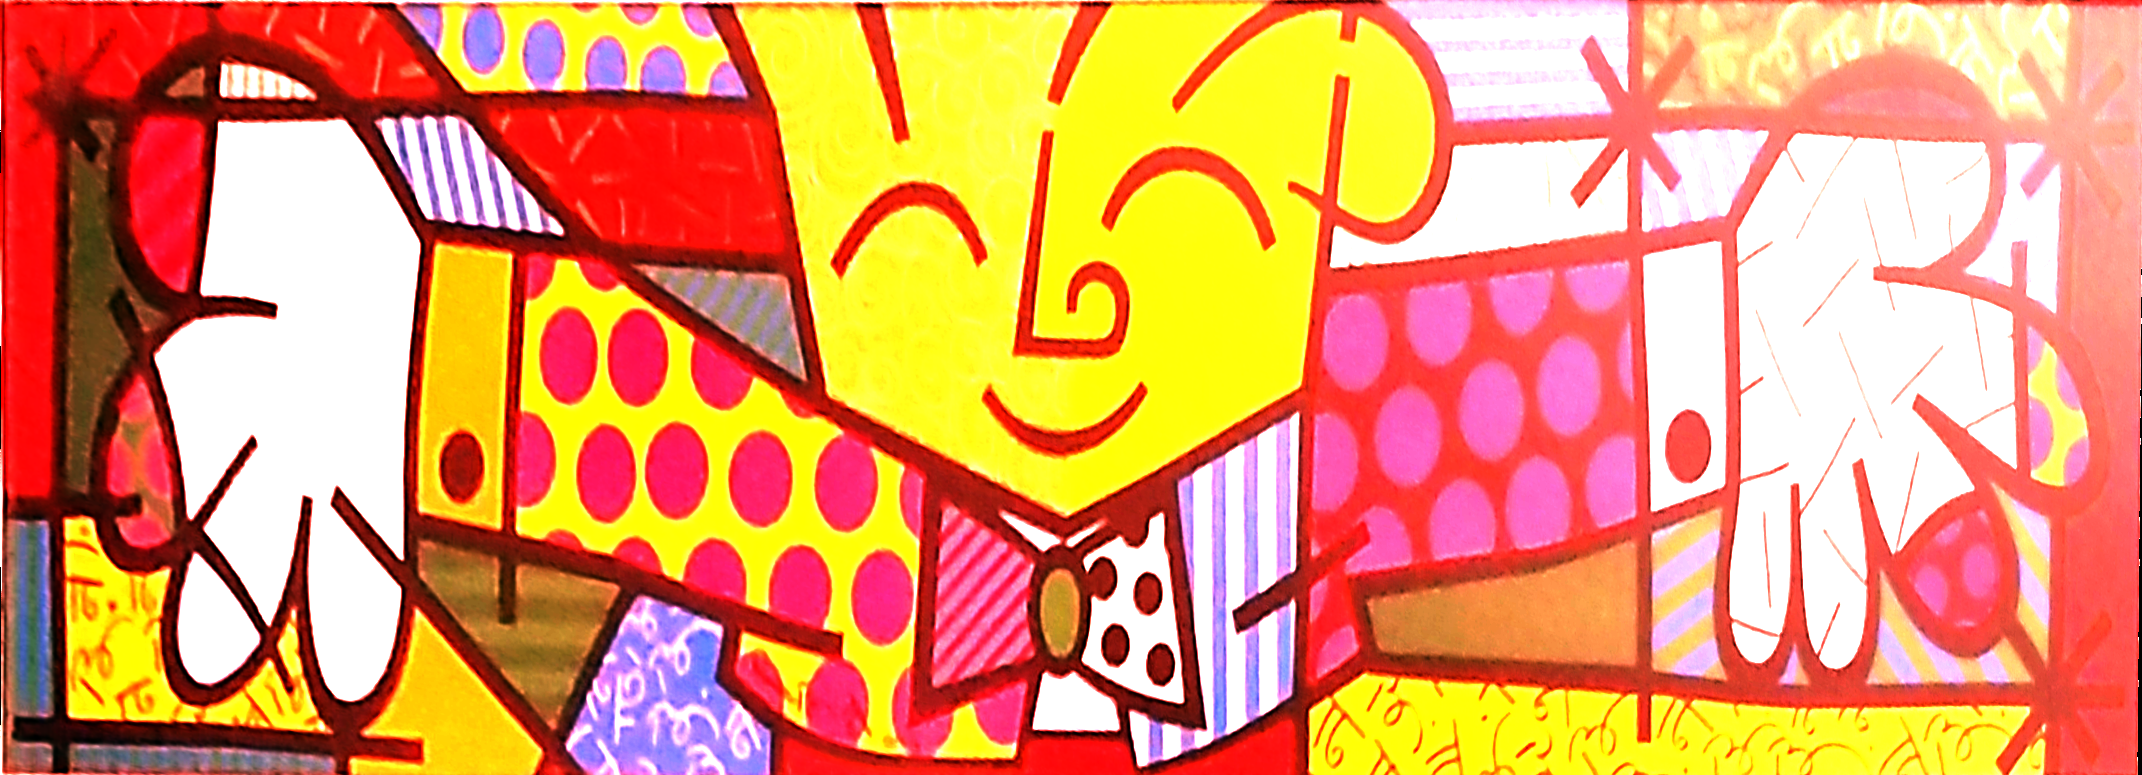
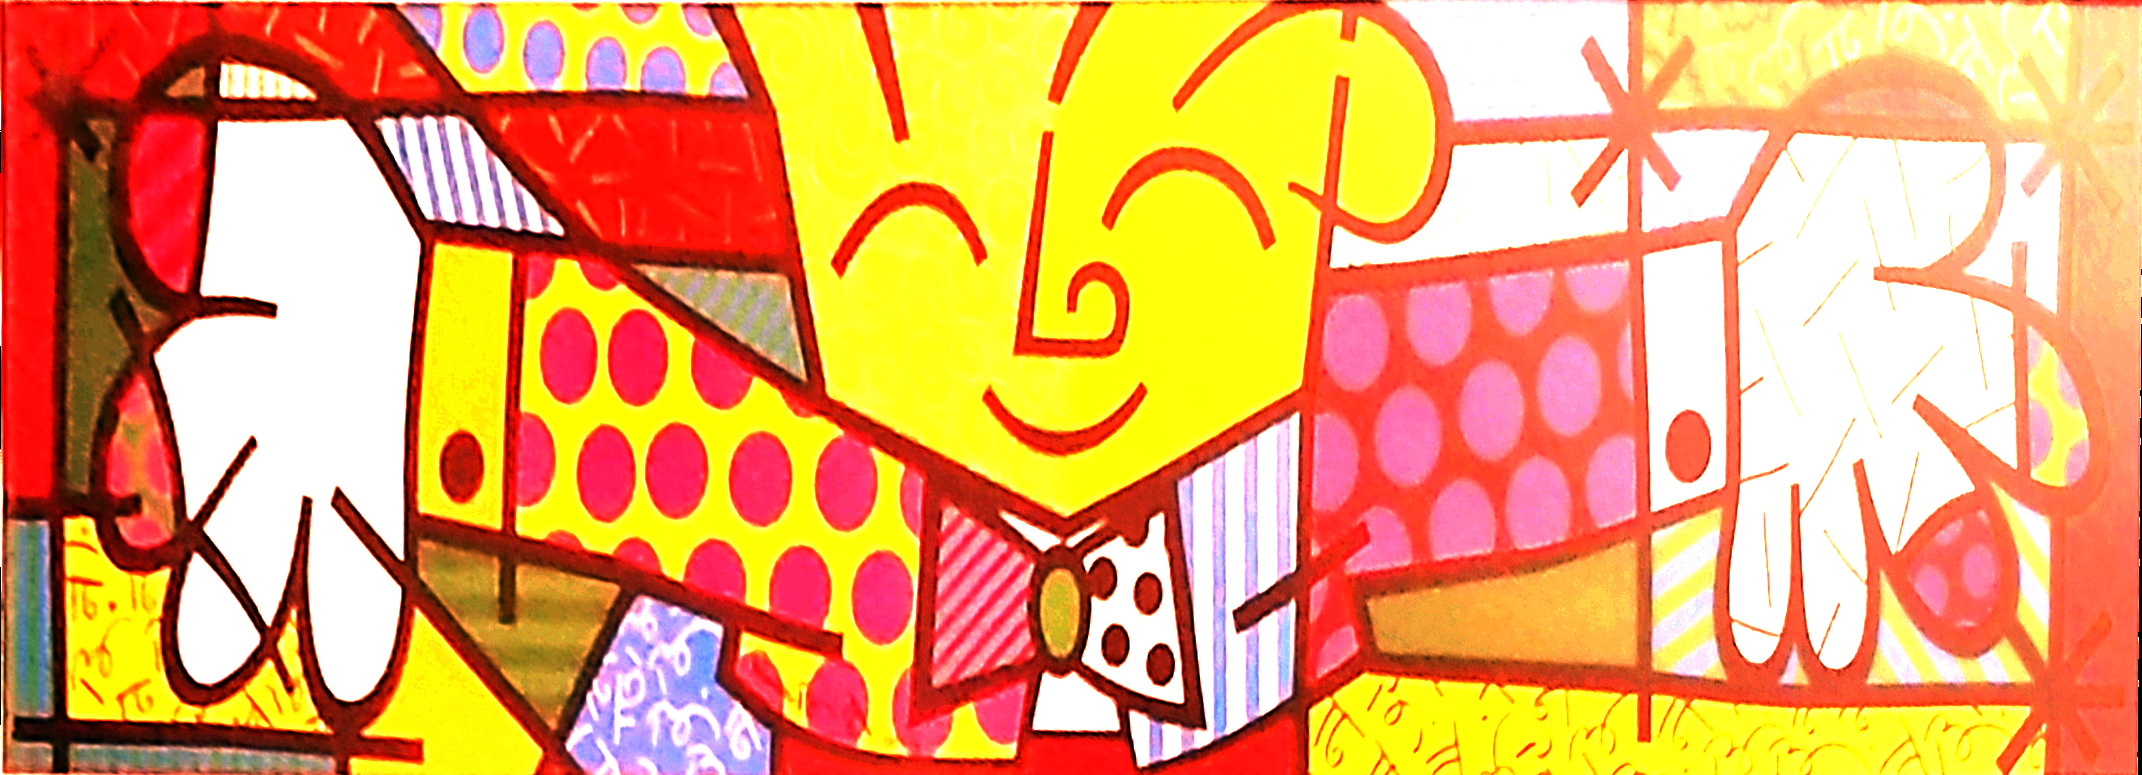
gerado imagens

diff --git a/ProjHistogramMatch/code_gc/main.m b/ProjHistogramMatch/code_gc/main.m
@@ -3,11 +3,10 @@ clear;
 close all;
 warning('off', 'all');
 pkg load image;
-imagens = ['img1_patch.png';'img2_patch.png';'img1.png';'img2.png'];
 input_path = '../data';
 output_path = '../data_out';
-name1= sprintf("%s/%s",input_path,imagens(1,:))
-name2= sprintf("%s/%s",input_path,imagens(2,:))
+name1= sprintf("%s/img1_patch.png",input_path)
+name2= sprintf("%s/img2_patch.png",input_path)
 img1 = imread(name1);
 img2 = imread(name2);
 
@@ -16,12 +15,18 @@ start_point = [[1,1];[128,128];[256,256]];
 p1 =simulate(start_point,img2(:,:,1),img1(:,:,1));
 p2 =simulate(start_point,img2(:,:,2),img1(:,:,2));
 p3 =simulate(start_point,img2(:,:,3),img1(:,:,3));
-for i=1:4
-  name_in = sprintf("%s/%s",input_path,imagens(i,:))
-  img = imread(name_in);
-  r = transform(p1,img(:,:,1));
-  g = transform(p2,img(:,:,2));
-  b = transform(p3,img(:,:,3));
-  name_out = sprintf("%s/%s",output_path,imagens(i,:))
-  imwrite(cat(3,r,g,b),name_out);
-end
+
+
+r = transform(p1,img2(:,:,1));
+g = transform(p2,img2(:,:,2));
+b = transform(p3,img2(:,:,3));
+name_out = sprintf("%s/img2_patch.png",output_path)
+imwrite(cat(3,r,g,b),name_out);
+
+name2= sprintf("%s/img2.png",input_path)
+img2 = imread(name2);
+r = transform(p1,img2(:,:,1));
+g = transform(p2,img2(:,:,2));
+b = transform(p3,img2(:,:,3));
+name_out = sprintf("%s/img2.png",output_path)
+imwrite(cat(3,r,g,b),name_out);

diff --git a/ProjHistogramMatch/code_gc/simulate.m b/ProjHistogramMatch/code_gc/simulate.m
@@ -2,11 +2,10 @@
 function end_point = simulate(start_point, chanel1,chanel2)
   
   n_cycles = 50;
-  m_trials_per_cycle = 10;
+  m_trials_per_cycle = 50;
   n_accepted_solution = 0.0;
   p_accept_worse_start = 0.7;  
   p_accept_worse_end = 0.001;
-  change_index = 2;% altera apenas o ponto do meio
   
   t_initial = -1.0/log(p_accept_worse_start);  
   t_final = -1.0/log(p_accept_worse_end);
@@ -23,13 +22,15 @@ function end_point = simulate(start_point, chanel1,chanel2)
   
   for i=1:n_cycles
     for j=1:m_trials_per_cycle
-      current_point = change_point(best_point, change_index);
+      current_point = change_point(best_point, 1);
+  	  current_point = change_point(current_point, 2);
+  	  current_point = change_point(current_point, 3);
       
       fraction_current = D(h(transform(current_point, chanel1)), h(chanel2));
       
       DeltaE = abs(fraction_current - fraction_best);
       accept = 1;
-      if(fraction_current > fraction_best)
+      if(fraction_current < fraction_best)
         if(i==1 && j==1)
           DeltaE_avg = DeltaE;
         end
